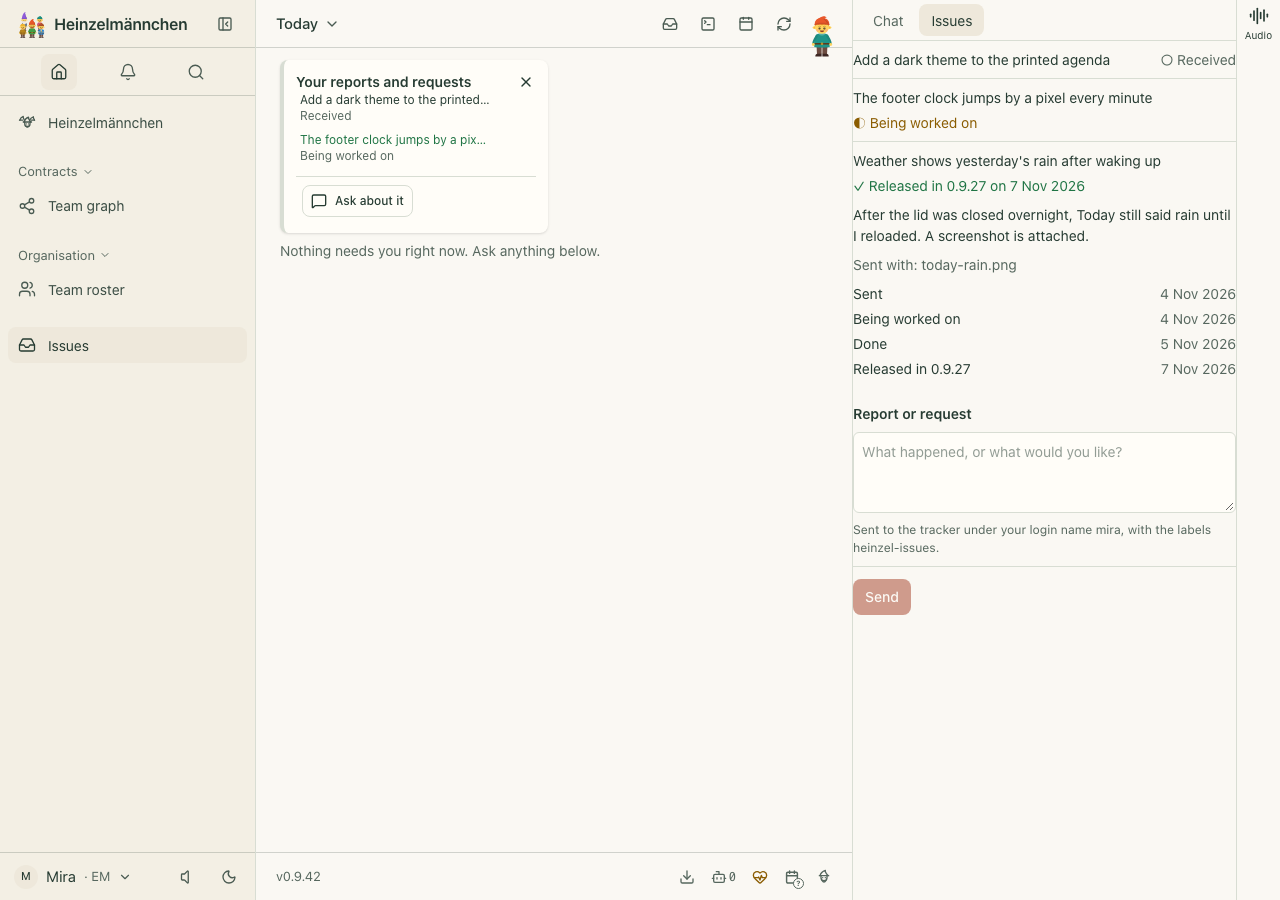
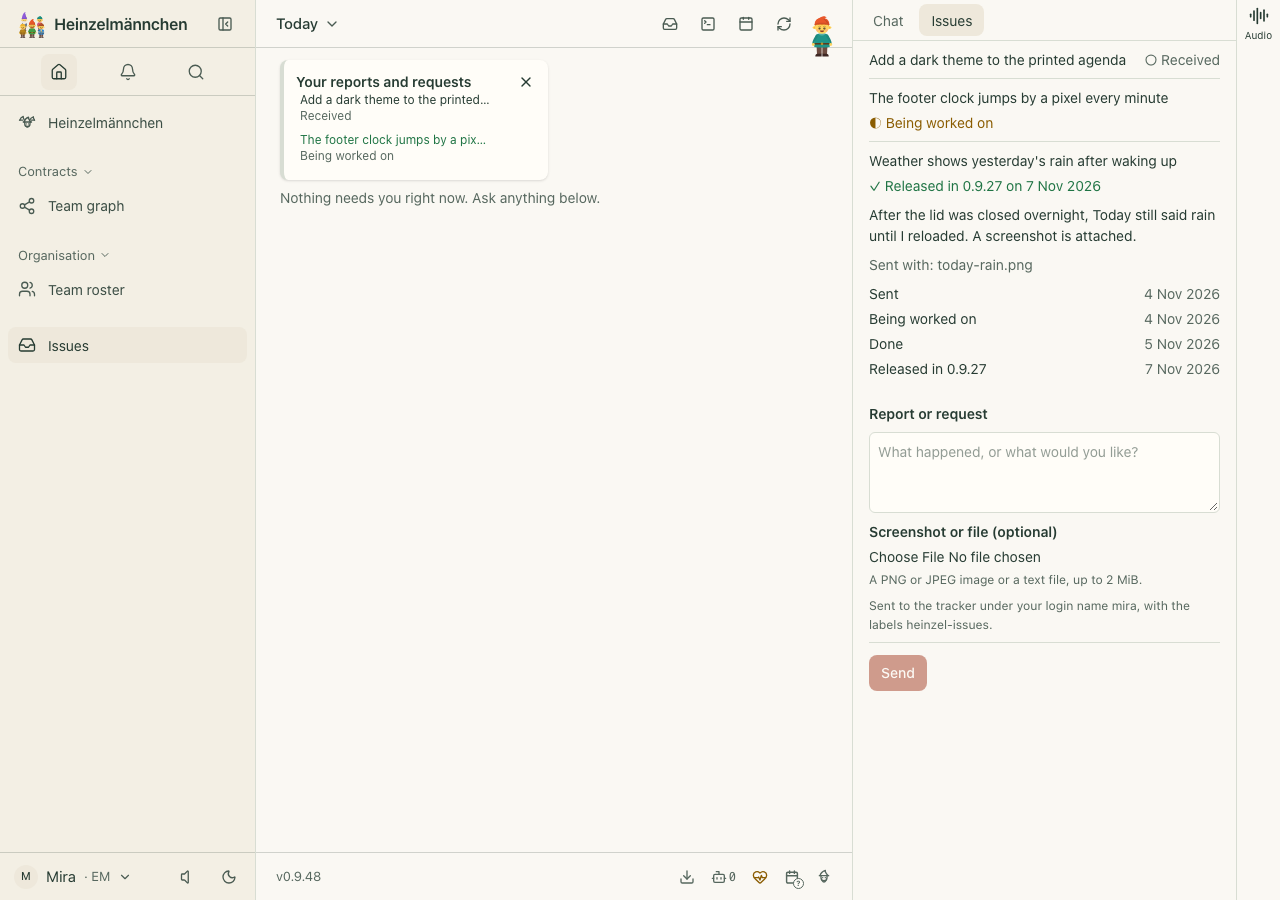
fix(issues): inset sidebar content (#118)
* fix(issues): inset sidebar content

* chore(issues): prepare 0.2.2 release

---------

diff --git a/plugins/heinzel-issues/docs/assets/screenshots/index.html b/plugins/heinzel-issues/docs/assets/screenshots/index.html
@@ -1,1 +1,1 @@
-<!doctype html><html lang="en"><meta charset="utf-8"><meta name="viewport" content="width=device-width"><title>heinzel-issues screenshots</title><style>body{font:16px/1.6 system-ui;margin:2rem;background:#faf8f3;color:#263b32}main{display:grid;grid-template-columns:repeat(auto-fit,minmax(min(100%,420px),1fr));gap:1rem}figure{margin:0;padding:1rem;background:white;border:1px solid #d8ddd3;border-radius:12px}img{width:100%;height:auto}figcaption{margin-top:.75rem}a:focus-visible{outline:3px solid #a64028}</style><h1>heinzel-issues</h1><p>Isolated demonstration profile · Core 0.9.42 · Review these captures before committing. Click an image to inspect it at full size.</p><main><figure><a href="issues-page.png"><img src="issues-page.png" alt="Three fictional reports: received, being worked on, and released in 0.9.27 — with a form to send another"></a><figcaption>UI · Three fictional reports: received, being worked on, and released in 0.9.27 — with a form to send another</figcaption></figure><figure><a href="report-history.png"><img src="report-history.png" alt="A fictional report opened: what was sent, the file sent with it, and its history up to the release"></a><figcaption>UI · A fictional report opened: what was sent, the file sent with it, and its history up to the release</figcaption></figure><figure><a href="today-open-reports.png"><img src="today-open-reports.png" alt="Your open fictional reports and requests on Today, in dark mode; done ones leave the list"></a><figcaption>UI · Your open fictional reports and requests on Today, in dark mode; done ones leave the list</figcaption></figure><figure><a href="cli-list.png"><img src="cli-list.png" alt="The same fictional reports and their plain states through the real CLI"></a><figcaption>CLI · The same fictional reports and their plain states through the real CLI</figcaption></figure></main></html>
+<!doctype html><html lang="en"><meta charset="utf-8"><meta name="viewport" content="width=device-width"><title>heinzel-issues screenshots</title><style>body{font:16px/1.6 system-ui;margin:2rem;background:#faf8f3;color:#263b32}main{display:grid;grid-template-columns:repeat(auto-fit,minmax(min(100%,420px),1fr));gap:1rem}figure{margin:0;padding:1rem;background:white;border:1px solid #d8ddd3;border-radius:12px}img{width:100%;height:auto}figcaption{margin-top:.75rem}a:focus-visible{outline:3px solid #a64028}</style><h1>heinzel-issues</h1><p>Isolated demonstration profile · Core 0.9.48 · Review these captures before committing. Click an image to inspect it at full size.</p><main><figure><a href="issues-page.png"><img src="issues-page.png" alt="Three fictional reports: received, being worked on, and released in 0.9.27 — with a form to send another"></a><figcaption>UI · Three fictional reports: received, being worked on, and released in 0.9.27 — with a form to send another</figcaption></figure><figure><a href="report-history.png"><img src="report-history.png" alt="A fictional report opened: what was sent, the file sent with it, and its history up to the release"></a><figcaption>UI · A fictional report opened: what was sent, the file sent with it, and its history up to the release</figcaption></figure><figure><a href="today-open-reports.png"><img src="today-open-reports.png" alt="Your open fictional reports and requests on Today, in dark mode; done ones leave the list"></a><figcaption>UI · Your open fictional reports and requests on Today, in dark mode; done ones leave the list</figcaption></figure><figure><a href="cli-list.png"><img src="cli-list.png" alt="The same fictional reports and their plain states through the real CLI"></a><figcaption>CLI · The same fictional reports and their plain states through the real CLI</figcaption></figure></main></html>

diff --git a/plugins/heinzel-issues/src/heinzel_issues/views/style.css b/plugins/heinzel-issues/src/heinzel_issues/views/style.css
@@ -1,5 +1,5 @@
 /* Scoped to the Issues view; colours come from the app's theme tokens, so light and dark both follow it. */
-.hzi { display: flex; flex-direction: column; gap: 0.75rem; }
+.hzi { box-sizing: border-box; min-width: 0; padding-inline: 1rem; display: flex; flex-direction: column; gap: 0.75rem; }
 .hzi-list { list-style: none; margin: 0; padding: 0; display: flex; flex-direction: column; }
 .hzi-item { border-bottom: 1px solid var(--color-border); }
 .hzi-row { display: flex; flex-wrap: wrap; justify-content: space-between; gap: 0.25rem 0.75rem; width: 100%; padding: 0.5rem 0; border: 0; background: none; color: inherit; font: inherit; text-align: start; cursor: pointer; }
@@ -10,7 +10,7 @@
 .hzi-history li { display: flex; flex-wrap: wrap; justify-content: space-between; gap: 0.25rem 0.75rem; }
 .hzi-field { display: flex; flex-direction: column; gap: 0.25rem; }
 .hzi-hint { margin: 0; font-size: 0.875em; }
-.hzi-input { width: 100%; padding: 0.5rem; border: 1px solid var(--color-border); border-radius: 0.375rem; background: var(--color-input); color: var(--color-foreground); font: inherit; }
+.hzi-input { box-sizing: border-box; width: 100%; padding: 0.5rem; border: 1px solid var(--color-border); border-radius: 0.375rem; background: var(--color-input); color: var(--color-foreground); font: inherit; }
 .hzi-file { font: inherit; color: inherit; max-width: 100%; }
 .hzi-more { display: flex; flex-direction: column; gap: 0.5rem; }
 .hzi-more summary { cursor: pointer; }
@@ -24,7 +24,7 @@
 .hzi-bad { color: var(--color-bad, #b42318); }
 .hzi-form { display: flex; flex-direction: column; gap: 0.5rem; }
 .hzi-label { font-weight: 600; }
-.hzi-text { width: 100%; resize: vertical; min-height: 4.5rem; padding: 0.5rem; border: 1px solid var(--color-border); border-radius: 0.375rem; background: var(--color-input); color: var(--color-foreground); font: inherit; }
+.hzi-text { box-sizing: border-box; width: 100%; resize: vertical; min-height: 4.5rem; padding: 0.5rem; border: 1px solid var(--color-border); border-radius: 0.375rem; background: var(--color-input); color: var(--color-foreground); font: inherit; }
 .hzi-text:focus-visible { outline: 2px solid var(--color-ring); outline-offset: 2px; }
 .hzi-actions { display: flex; flex-wrap: wrap; gap: 0.5rem; padding-top: 0.75rem; border-top: 1px solid var(--color-border); }
 @media (pointer: coarse) { .hzi-actions button, .hzi-row, .hzi-input { min-height: 44px; } }

diff --git a/plugins/heinzel-issues/src/heinzel_issues/views/index.js b/plugins/heinzel-issues/src/heinzel_issues/views/index.js
@@ -168,8 +168,10 @@ export default function createView(sdk) {
   }
 
   return function Issues({ data, loading, submit }) {
-    if (loading && !data) return h("p", { role: "status", className: "hzi-muted" }, "Loading…");
-    if (!data) return h("p", { role: "status" }, "Issues cannot be shown here.");
+    if (loading && !data) return h("section", { "aria-label": "Issues", className: "hzi" },
+      h("p", { role: "status", className: "hzi-muted" }, "Loading…"));
+    if (!data) return h("section", { "aria-label": "Issues", className: "hzi" },
+      h("p", { role: "status" }, "Issues cannot be shown here."));
     if (!data.ready) {
       return h("section", { "aria-label": "Issues", className: "hzi" },
         h(Setup, { submit, problem: data.problem, folder: data.folder, labels: data.extra_labels }),

diff --git a/plugins/heinzel-issues/tests/unit/view_test.py b/plugins/heinzel-issues/tests/unit/view_test.py
@@ -72,6 +72,9 @@ if (scenario.name === "send") {
   out.old = (() => { try { createView({ abi: 2 }); } catch (error) { return error.message; } })();
   out.loading = text(expand(Issues({ loading: true })));
   out.missing = text(expand(Issues({})));
+  out.shells = [Issues({ loading: true }), Issues({}), Issues({ data: { ready: false } }),
+    Issues({ data: { ready: true, reports: [] } })].map((node) =>
+      [node.type, node.props.className, node.props["aria-label"]]);
 }
 console.log(JSON.stringify({ calls, set: set.map((value) => value instanceof File ? "file" : value), ...out }));
 """
@@ -182,3 +185,4 @@ def test_dates_marks_files_and_the_states_without_data(tmp_path):
     assert result["old"] == "Issues requires Heinzel plugin SDK 1"
     assert result["loading"] == "Loading…"
     assert result["missing"] == "Issues cannot be shown here."
+    assert result["shells"] == [["section", "hzi", "Issues"]] * 4

diff --git a/plugins/heinzel-issues/docs/SCREENSHOT_STORY.md b/plugins/heinzel-issues/docs/SCREENSHOT_STORY.md
@@ -1,44 +1,36 @@
 ## Audience
-People who use Heinzel and want to report a problem or request something without leaving the app, then follow it to the release that shipped it. Maintainers also need to know that the built-in tracker is a Beads database on this computer that they can write to; the plugin is optional and off until a tracker is set up (`README.md`, `[tool.heinzel.catalog]` in `pyproject.toml`).
+People who want a simple way to report a problem or request an improvement and follow it through to a release, provided they have access to a writable Beads database.
 
 ## Outcome
-The tracker is usable from within the app, with no terminal step: set it up, send a report, read the list with plain states, open one report for what was sent and its history, and see open reports on Today. The gallery shows the real plugin view and Core's Today with fictional data only. It must not claim that anything was sent: the demonstration tracker refuses sending.
-
-## The UI flows in the source
-All of this is one view, `src/heinzel_issues/views/index.js`, at the route `/?panel=issues:requests` (`ROUTE` in `_service.py`), reached from the sidebar entry Issues (`module.nav`, `module.action`, `module.view(name="requests", source="list")` in `__init__.py`).
-
-1. **Setup form.** While `data.ready` is false the view renders the form "Set up issue tracking": the status line "Issue tracking is not set up." (or the tracker's own problem text), the required field "Tracker folder", and under "More options" the fields "More labels" and "Release clones". The button "Set up issue tracking" runs the view action `connect` (operation `connect`), which checks that the folder holds a Beads database and that it answers before anything is saved, then works without a restart. The form says "Checking the folder…", then "Issue tracking is set up." or the reason nothing was saved.
-2. **Submit with confirm.** When ready, the composer "Report or request" has a text area ("What happened, or what would you like?"), an optional chooser "Screenshot or file (optional)" for a PNG, JPEG or text file up to 2 MiB, a line that says how it is stored ("Sent to the tracker under your login name …, with the labels …"), and the button Send. Send runs the view action `send` (operation `submit`, declared `read_only=False`, `private=True`). Core shows the call and asks before it runs; that confirmation is Core-rendered, not plugin UI. Cancelling keeps the typed text ("Not sent; your text is still here."); success says "Received. You will see here when someone is on it." The chooser appears only when Core reports the SDK feature `form-long-values`.
-3. **List with states.** The list "Your reports and requests" has one row per report: its title, and its state as a mark and a word, never colour alone: ○ Received, ◐ Being worked on, ✓ Done, or ✓ Released in 0.9.27 on 7 Nov 2026 once a release is found. An empty tracker shows "Nothing reported yet."
-4. **Detail and history.** A row is a button; selecting it expands the text sent after the title, "Sent with:" and the attachment names, and the ordered list "History": Sent, Being worked on, Done, Released in, each with its day.
-5. **Today cards.** `@module.widget(source="list")` puts a list card "Your reports and requests" on Core's Today at `/` with up to eight reports that are not done, each with its state and a link to the Issues page. It is absent while tracking is off or everything is done.
-
-Beyond the app: the CLI commands `hz issues list`, `submit`, `show` and `connect`, the prompted `hz setup issues`, a Doctor check `tracker`, and a five-minute job that emits Core notices on a state change or release. These are Core or terminal surfaces, not further plugin pages. No external provider UI is declared; Beads is reached through a local command and releases through local git clones.
+Show how Issues turns a report into a small, understandable journey: received, being worked on, done, and released. Make the writable tracker prerequisite clear, and show that the same reports are available in the app and CLI.
 
 ## Scenes
-1. **issues-page (UI, light):** flows 2 and 3 at rest. Three fictional reports, one per state, the done one as "Released in 0.9.27 on 7 Nov 2026", above the composer with its storage line and Send. The caption's "a form to send another" is accurate for the form being present; it is not a sent report.
-2. **report-history (UI, light):** flow 4. The fictional weather report is opened: its text, "Sent with: today-rain.png", and the history Sent 4 Nov 2026, Being worked on 4 Nov 2026, Done 5 Nov 2026, Released in 0.9.27 7 Nov 2026. A meaningful expanded state of the same real view.
-3. **today-open-reports (UI, dark):** flow 5. Core's Today with the two open fictional reports; the released one is absent.
-4. **cli-list (CLI):** `hz issues list` as a table with the columns Report or request, Status and Sent, for the same three reports. A real CLI result, not a substitute for the UI.
+1. **Issues page, light:** Three fictional reports span the three states; the released report and the composer make both follow-up and reporting visible.
+2. **Report history, light:** Open the fictional weather report to show its description, attachment name, and progress through release. This is a meaningful expanded state of the same view, not a duplicate capture.
+3. **Today, dark:** Show the two open fictional reports in the Core-rendered widget; the completed report is absent.
+4. **CLI list:** Show the same fictional reports and plain-language statuses using the actual `issues list` operation.
 
-What the plan does not capture: the setup form (flow 1) and Core's confirmation or a successful send (the rest of flow 2). The fixture forces a ready tracker and its `submit` raises "Sending is off in this demonstration.", so neither can be shown by this plan and no caption may imply them. Showing them needs further scenes with a fixture state that is not set up and a plan step that presses Send; that is a change to the plan and needs a new definition.
+The existing plan already tells this story, so its scenes and bootstrap are retained. The light and dark appearances must actually be applied during capture.
 
 ## Fictional fixtures
-`docs/screenshot_fixture.py` replaces the built-in tracker with one in memory holding three fictional tasks (demo-1 to demo-3), one fictional attachment name with no file behind it, and a temporary local git clone with empty commits and the tags v0.9.26 and v0.9.27, so that "Fixed in #7" resolves to 0.9.27 on 7 Nov 2026. It sets the tracker and the release clone through environment settings and then runs the real app. No Beads database is read or written and nothing is sent anywhere. Browser time is fixed at 8 Nov 2026.
+`docs/screenshot_fixture.py` supplies an in-memory tracker with three fictional tasks, a fictional attachment name and a temporary release clone containing the fictional 0.9.27 release. It does not use a Beads database. Its `Demo.submit` deliberately refuses sends, so captures must not claim that a report was submitted successfully. The fixture creates its temporary clone only during explicit capture; it was not run for this plan.
 
 ## Privacy pitfalls
-- The composer prints the login name of whoever runs the capture (`reporter()` in `_beads.py` reads the operating system's login name) together with the label `heinzel-issues`. The image is acceptable only if that name is the capture profile's fictional one; a real login name on scenes 1 or 2 is a rejection.
-- The release clone lives in a temporary folder whose path is in the settings. It must not appear in any image or transcript; the list and the table do not print it, the JSON output would.
-- The setup form's "Tracker folder" is prefilled from settings and would show a real path if it were ever captured from a real profile.
-- Report titles, body and the attachment name must be exactly the fixture's; any text from a real tracker, a real bead id or a pull request of a real repository is a rejection. The view and the table do not print tracker ids.
-- Core chrome around the view (sidebar, account name, version, Doctor card, footer, notices, chat) comes from the capture profile; check it for real names, host names, paths, e-mail addresses and tokens. The toolkit's own presentation mapping is limited to the owning interpreter path shown as `/demo-profile/.venv` and the Doctor hostname shown as `demo-host`; neither is a privacy acceptance.
+Normal presentation fictionalization maps verified owning-interpreter paths to `/demo-profile/.venv`, and only the verified whole hostname detail in the genuine Doctor row to `demo-host`. These mappings change no SDK health status or remaining detail and establish no privacy acceptance. Unknown identities still fail, and independent review must inspect every image and transcript.
+
+The composer displays the local login and configured labels (`src/heinzel_issues/views/index.js`, `sentAs`; `src/heinzel_issues/_service.py`, `overview`). Treat an unexpected sender, label, path, hostname, account, notification, or other identifying detail as a capture failure; do not assume the fictional task data sanitizes surrounding Core UI. Dismiss Doctor only where the existing optional step finds it, and inspect any remaining content. Never use forged HTML or recast terminal output as feature UI.
 
 ## Acceptance criteria
-- Four distinct captures from the real app and CLI through the fixture; no forged HTML, duplicates or caption-only variants. Scenes 1 and 2 are genuine feature UI states, scene 3 is a Core feature surface fed by the plugin, scene 4 is identified as CLI.
-- Scene 1 shows all three rows with mark and word, and the composer; scene 2 shows the body text, "Sent with: today-rain.png" and all four history steps with dates; scene 3 shows exactly the two open reports in an applied dark appearance; scene 4 lists the same three with the same states.
-- Light and dark are actually applied. Text is readable, nothing clipped, the state marks are visible.
-- Do not describe the file chooser as shown unless it is in the image; it depends on the captured Core.
-- Captions say the data is fictional and claim nothing about setup, confirmation or a successful send.
-- An independent reviewer opens every image and reads every transcript for privacy and accuracy before publication.
+- Capture the genuine Issues view and its expanded report, the genuine Today widget, and the real CLI result using the declared route and fixture. Reject duplicate captures and caption-only variations.
+- Verify all three statuses and the fictional release in the Issues view; verify the opened report's body, attachment name and history; verify Today contains open reports and excludes the done report.
+- Verify the CLI result reflects the fixture, with no claim that a real tracker was contacted. Each caption identifies demo or fictional data.
+- Verify light and dark appearances visually, and independently inspect every image and transcript for privacy before publication. Unknown identities fail review.
+- The editable TOML below has been checked against the supplied field and action rules by inspection; no parser, product code, capture, or network call was run, so runtime capture and parser validation remain outstanding.
 
-This analysis read the staged source, README, plan and fixture; it ran no plugin code and captured nothing.
+## Source-bound UI surface inventory
+- `pyproject.toml`, `[project.entry-points."heinzel.modules"]`: the declared plugin entry point is `issues = "heinzel_issues"`. `src/heinzel_issues/_contract.py`, `ENTRY_POINTS` and connector loading, also define an extension group for external tracker connectors; no external provider interface is supplied here.
+- `src/heinzel_issues/__init__.py`, `module.nav`, `module.action` and `module.view`: the genuine Issues feature view is `requests`, backed by `list`; `src/heinzel_issues/_service.py`, `ROUTE`, declares `/?panel=issues:requests`. `src/heinzel_issues/views/index.js` implements the list, expanded history, composer and unconfigured setup form. `connect` and `send` invoke declared operations through Core confirmation; the provided fixture cannot demonstrate a successful send.
+- `src/heinzel_issues/__init__.py`, `today`: Core renders a Today list widget for up to eight open reports, with navigation to the Issues view. The `watch` job can produce local notifications; the supplied fixture and plan do not establish a captured notification state.
+- `src/heinzel_issues/__init__.py`, `list`, `submit`, `connect`, and `show`: operations expose CLI results and may also contribute Core operation and confirmation surfaces. `setup` contributes a Core setup flow and `tracking` contributes health/Doctor checks. These are not evidence that Issues is terminal-only. No channel, info, or footer contribution is declared in the supplied module.
+- The Beads connector invokes a local provider (`src/heinzel_issues/_beads.py`); no external provider UI is declared. `docs/CONTRACT.md` describes possible third-party connectors, not screens available in this source.
+- `README.md` says normal app sending works after setup, while the screenshot fixture expressly disables sending. It also says reports are limited to the local login; the in-memory fixture returns its fixed tasks directly and does not prove that privacy boundary. These differences must remain visible in review, rather than being treated as acceptance evidence.

diff --git a/plugins/heinzel-issues/docs/assets/screenshots/source-story.md b/plugins/heinzel-issues/docs/assets/screenshots/source-story.md
@@ -1,44 +1,36 @@
 ## Audience
-People who use Heinzel and want to report a problem or request something without leaving the app, then follow it to the release that shipped it. Maintainers also need to know that the built-in tracker is a Beads database on this computer that they can write to; the plugin is optional and off until a tracker is set up (`README.md`, `[tool.heinzel.catalog]` in `pyproject.toml`).
+People who want a simple way to report a problem or request an improvement and follow it through to a release, provided they have access to a writable Beads database.
 
 ## Outcome
-The tracker is usable from within the app, with no terminal step: set it up, send a report, read the list with plain states, open one report for what was sent and its history, and see open reports on Today. The gallery shows the real plugin view and Core's Today with fictional data only. It must not claim that anything was sent: the demonstration tracker refuses sending.
-
-## The UI flows in the source
-All of this is one view, `src/heinzel_issues/views/index.js`, at the route `/?panel=issues:requests` (`ROUTE` in `_service.py`), reached from the sidebar entry Issues (`module.nav`, `module.action`, `module.view(name="requests", source="list")` in `__init__.py`).
-
-1. **Setup form.** While `data.ready` is false the view renders the form "Set up issue tracking": the status line "Issue tracking is not set up." (or the tracker's own problem text), the required field "Tracker folder", and under "More options" the fields "More labels" and "Release clones". The button "Set up issue tracking" runs the view action `connect` (operation `connect`), which checks that the folder holds a Beads database and that it answers before anything is saved, then works without a restart. The form says "Checking the folder…", then "Issue tracking is set up." or the reason nothing was saved.
-2. **Submit with confirm.** When ready, the composer "Report or request" has a text area ("What happened, or what would you like?"), an optional chooser "Screenshot or file (optional)" for a PNG, JPEG or text file up to 2 MiB, a line that says how it is stored ("Sent to the tracker under your login name …, with the labels …"), and the button Send. Send runs the view action `send` (operation `submit`, declared `read_only=False`, `private=True`). Core shows the call and asks before it runs; that confirmation is Core-rendered, not plugin UI. Cancelling keeps the typed text ("Not sent; your text is still here."); success says "Received. You will see here when someone is on it." The chooser appears only when Core reports the SDK feature `form-long-values`.
-3. **List with states.** The list "Your reports and requests" has one row per report: its title, and its state as a mark and a word, never colour alone: ○ Received, ◐ Being worked on, ✓ Done, or ✓ Released in 0.9.27 on 7 Nov 2026 once a release is found. An empty tracker shows "Nothing reported yet."
-4. **Detail and history.** A row is a button; selecting it expands the text sent after the title, "Sent with:" and the attachment names, and the ordered list "History": Sent, Being worked on, Done, Released in, each with its day.
-5. **Today cards.** `@module.widget(source="list")` puts a list card "Your reports and requests" on Core's Today at `/` with up to eight reports that are not done, each with its state and a link to the Issues page. It is absent while tracking is off or everything is done.
-
-Beyond the app: the CLI commands `hz issues list`, `submit`, `show` and `connect`, the prompted `hz setup issues`, a Doctor check `tracker`, and a five-minute job that emits Core notices on a state change or release. These are Core or terminal surfaces, not further plugin pages. No external provider UI is declared; Beads is reached through a local command and releases through local git clones.
+Show how Issues turns a report into a small, understandable journey: received, being worked on, done, and released. Make the writable tracker prerequisite clear, and show that the same reports are available in the app and CLI.
 
 ## Scenes
-1. **issues-page (UI, light):** flows 2 and 3 at rest. Three fictional reports, one per state, the done one as "Released in 0.9.27 on 7 Nov 2026", above the composer with its storage line and Send. The caption's "a form to send another" is accurate for the form being present; it is not a sent report.
-2. **report-history (UI, light):** flow 4. The fictional weather report is opened: its text, "Sent with: today-rain.png", and the history Sent 4 Nov 2026, Being worked on 4 Nov 2026, Done 5 Nov 2026, Released in 0.9.27 7 Nov 2026. A meaningful expanded state of the same real view.
-3. **today-open-reports (UI, dark):** flow 5. Core's Today with the two open fictional reports; the released one is absent.
-4. **cli-list (CLI):** `hz issues list` as a table with the columns Report or request, Status and Sent, for the same three reports. A real CLI result, not a substitute for the UI.
+1. **Issues page, light:** Three fictional reports span the three states; the released report and the composer make both follow-up and reporting visible.
+2. **Report history, light:** Open the fictional weather report to show its description, attachment name, and progress through release. This is a meaningful expanded state of the same view, not a duplicate capture.
+3. **Today, dark:** Show the two open fictional reports in the Core-rendered widget; the completed report is absent.
+4. **CLI list:** Show the same fictional reports and plain-language statuses using the actual `issues list` operation.
 
-What the plan does not capture: the setup form (flow 1) and Core's confirmation or a successful send (the rest of flow 2). The fixture forces a ready tracker and its `submit` raises "Sending is off in this demonstration.", so neither can be shown by this plan and no caption may imply them. Showing them needs further scenes with a fixture state that is not set up and a plan step that presses Send; that is a change to the plan and needs a new definition.
+The existing plan already tells this story, so its scenes and bootstrap are retained. The light and dark appearances must actually be applied during capture.
 
 ## Fictional fixtures
-`docs/screenshot_fixture.py` replaces the built-in tracker with one in memory holding three fictional tasks (demo-1 to demo-3), one fictional attachment name with no file behind it, and a temporary local git clone with empty commits and the tags v0.9.26 and v0.9.27, so that "Fixed in #7" resolves to 0.9.27 on 7 Nov 2026. It sets the tracker and the release clone through environment settings and then runs the real app. No Beads database is read or written and nothing is sent anywhere. Browser time is fixed at 8 Nov 2026.
+`docs/screenshot_fixture.py` supplies an in-memory tracker with three fictional tasks, a fictional attachment name and a temporary release clone containing the fictional 0.9.27 release. It does not use a Beads database. Its `Demo.submit` deliberately refuses sends, so captures must not claim that a report was submitted successfully. The fixture creates its temporary clone only during explicit capture; it was not run for this plan.
 
 ## Privacy pitfalls
-- The composer prints the login name of whoever runs the capture (`reporter()` in `_beads.py` reads the operating system's login name) together with the label `heinzel-issues`. The image is acceptable only if that name is the capture profile's fictional one; a real login name on scenes 1 or 2 is a rejection.
-- The release clone lives in a temporary folder whose path is in the settings. It must not appear in any image or transcript; the list and the table do not print it, the JSON output would.
-- The setup form's "Tracker folder" is prefilled from settings and would show a real path if it were ever captured from a real profile.
-- Report titles, body and the attachment name must be exactly the fixture's; any text from a real tracker, a real bead id or a pull request of a real repository is a rejection. The view and the table do not print tracker ids.
-- Core chrome around the view (sidebar, account name, version, Doctor card, footer, notices, chat) comes from the capture profile; check it for real names, host names, paths, e-mail addresses and tokens. The toolkit's own presentation mapping is limited to the owning interpreter path shown as `/demo-profile/.venv` and the Doctor hostname shown as `demo-host`; neither is a privacy acceptance.
+Normal presentation fictionalization maps verified owning-interpreter paths to `/demo-profile/.venv`, and only the verified whole hostname detail in the genuine Doctor row to `demo-host`. These mappings change no SDK health status or remaining detail and establish no privacy acceptance. Unknown identities still fail, and independent review must inspect every image and transcript.
+
+The composer displays the local login and configured labels (`src/heinzel_issues/views/index.js`, `sentAs`; `src/heinzel_issues/_service.py`, `overview`). Treat an unexpected sender, label, path, hostname, account, notification, or other identifying detail as a capture failure; do not assume the fictional task data sanitizes surrounding Core UI. Dismiss Doctor only where the existing optional step finds it, and inspect any remaining content. Never use forged HTML or recast terminal output as feature UI.
 
 ## Acceptance criteria
-- Four distinct captures from the real app and CLI through the fixture; no forged HTML, duplicates or caption-only variants. Scenes 1 and 2 are genuine feature UI states, scene 3 is a Core feature surface fed by the plugin, scene 4 is identified as CLI.
-- Scene 1 shows all three rows with mark and word, and the composer; scene 2 shows the body text, "Sent with: today-rain.png" and all four history steps with dates; scene 3 shows exactly the two open reports in an applied dark appearance; scene 4 lists the same three with the same states.
-- Light and dark are actually applied. Text is readable, nothing clipped, the state marks are visible.
-- Do not describe the file chooser as shown unless it is in the image; it depends on the captured Core.
-- Captions say the data is fictional and claim nothing about setup, confirmation or a successful send.
-- An independent reviewer opens every image and reads every transcript for privacy and accuracy before publication.
+- Capture the genuine Issues view and its expanded report, the genuine Today widget, and the real CLI result using the declared route and fixture. Reject duplicate captures and caption-only variations.
+- Verify all three statuses and the fictional release in the Issues view; verify the opened report's body, attachment name and history; verify Today contains open reports and excludes the done report.
+- Verify the CLI result reflects the fixture, with no claim that a real tracker was contacted. Each caption identifies demo or fictional data.
+- Verify light and dark appearances visually, and independently inspect every image and transcript for privacy before publication. Unknown identities fail review.
+- The editable TOML below has been checked against the supplied field and action rules by inspection; no parser, product code, capture, or network call was run, so runtime capture and parser validation remain outstanding.
 
-This analysis read the staged source, README, plan and fixture; it ran no plugin code and captured nothing.
+## Source-bound UI surface inventory
+- `pyproject.toml`, `[project.entry-points."heinzel.modules"]`: the declared plugin entry point is `issues = "heinzel_issues"`. `src/heinzel_issues/_contract.py`, `ENTRY_POINTS` and connector loading, also define an extension group for external tracker connectors; no external provider interface is supplied here.
+- `src/heinzel_issues/__init__.py`, `module.nav`, `module.action` and `module.view`: the genuine Issues feature view is `requests`, backed by `list`; `src/heinzel_issues/_service.py`, `ROUTE`, declares `/?panel=issues:requests`. `src/heinzel_issues/views/index.js` implements the list, expanded history, composer and unconfigured setup form. `connect` and `send` invoke declared operations through Core confirmation; the provided fixture cannot demonstrate a successful send.
+- `src/heinzel_issues/__init__.py`, `today`: Core renders a Today list widget for up to eight open reports, with navigation to the Issues view. The `watch` job can produce local notifications; the supplied fixture and plan do not establish a captured notification state.
+- `src/heinzel_issues/__init__.py`, `list`, `submit`, `connect`, and `show`: operations expose CLI results and may also contribute Core operation and confirmation surfaces. `setup` contributes a Core setup flow and `tracking` contributes health/Doctor checks. These are not evidence that Issues is terminal-only. No channel, info, or footer contribution is declared in the supplied module.
+- The Beads connector invokes a local provider (`src/heinzel_issues/_beads.py`); no external provider UI is declared. `docs/CONTRACT.md` describes possible third-party connectors, not screens available in this source.
+- `README.md` says normal app sending works after setup, while the screenshot fixture expressly disables sending. It also says reports are limited to the local login; the in-memory fixture returns its fixed tasks directly and does not prove that privacy boundary. These differences must remain visible in review, rather than being treated as acceptance evidence.

diff --git a/plugins/heinzel-issues/CHANGELOG.md b/plugins/heinzel-issues/CHANGELOG.md
@@ -1,5 +1,9 @@
 # Changelog
 
+## 0.2.2
+
+- Give the Issues sidebar consistent horizontal spacing, including on narrow screens.
+
 ## 0.2.1
 
 Requires Python 3.15; relocked.
